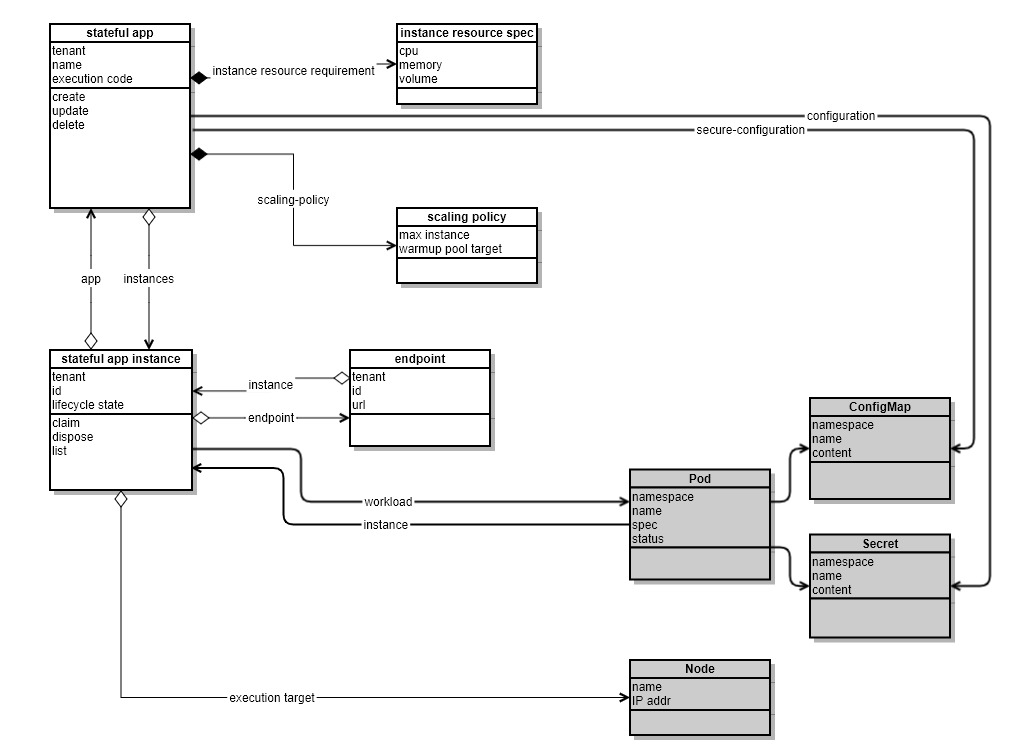
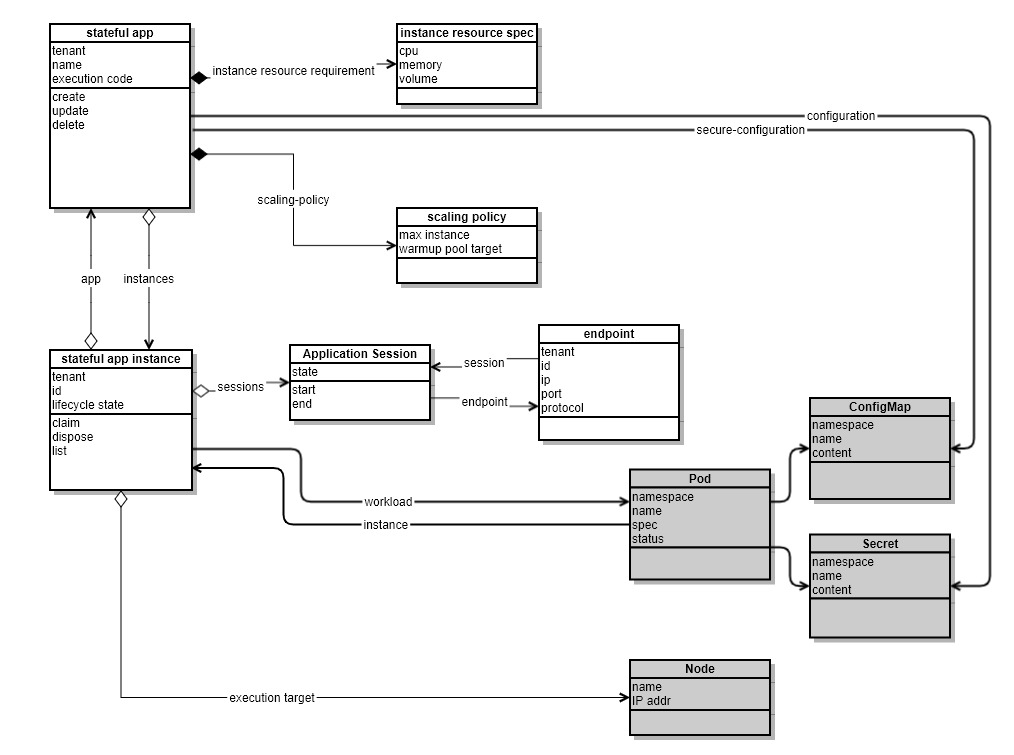
public API includes application session management

Changed region(s): [[0.214, 0.4265, 0.6726, 0.6093], [0.1834, 0.5179, 0.214, 0.5788]]

diff --git a/doc/design/architecture.md b/doc/design/architecture.md
@@ -51,8 +51,10 @@ __Stateful application public API__
 | Update app scaling policy | Update application scaling policy |
 | Delete application | Delete application and all its resources |
 | List instances | List instances of the application |
-| Claim instance | Take one instance from the pool, mark it as claimed(occupied); returns its expose endpoint; may trigger replenishment of resource pool |
+| Claim instance | Take one instance from the pool, mark it as claimed(occupied); may trigger replenishment of resource pool |
 | Dispose instance | Gracefully delete the instance (with optional grace time); after the grace time, instance will be forcefully deleted |
+| Start application session | Take one open session from the ready session pool, mark it as actively started; returns its exposed endpoint |
+| End application session | Mark the application session as finished |
 
 __Stateless application public API__
 
@@ -180,8 +182,31 @@ Error
 
 Request
 	HTTP Delete
-	Path: tenants/tenant-name/apps/app-name/instance/instance-id
+	Path: tenants/tenant-name/apps/app-name/instances/instance-id
 	Query options: ?gracetime=10s (by default 30s)
+Response
+	OK
+Error
+	Payload: {error: error-message}
+
+### Application Session Management Service
+1. Start application session
+
+Request
+	HTTP Post
+	Path: tenants/tenant-name/apps/app-name/sessions
+	Payload: {status: claimed}
+Response
+	OK
+		Payload: {id: session-id, endpoint: exposed-endpoint}, which has format of tcp/udp-hostname/ip:port.
+	Error
+		Payload: {error: error-message}
+
+2. End application session
+
+Request
+	HTTP Delete
+	Path: tenants/tenant-name/apps/app-name/sessions/session-id
 Response
 	OK
 Error
